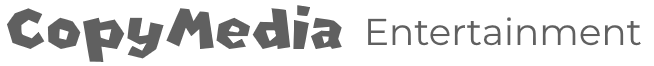
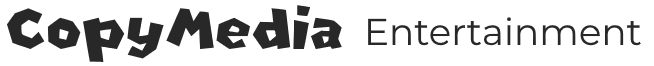
Accesibility: Changed the shade of gray.

Changed region(s): [[0.0, 0.0909, 0.5199, 0.9394], [0.5505, 0.2727, 0.9786, 0.697], [0.7645, 0.2727, 0.7951, 0.303]]

diff --git a/style.css b/style.css
@@ -89,7 +89,6 @@ header > li, a {
 }
 
 .cme-icon {
-    filter: brightness(70%); 
     height: 35px;
 }
 
@@ -176,7 +175,7 @@ footer {
 
 .footer-logo {
     margin: 50px 0px 100px 200px;
-    filter: brightness(300%);
+    filter: brightness(6969%);
 }
 
 .footer-sections {
